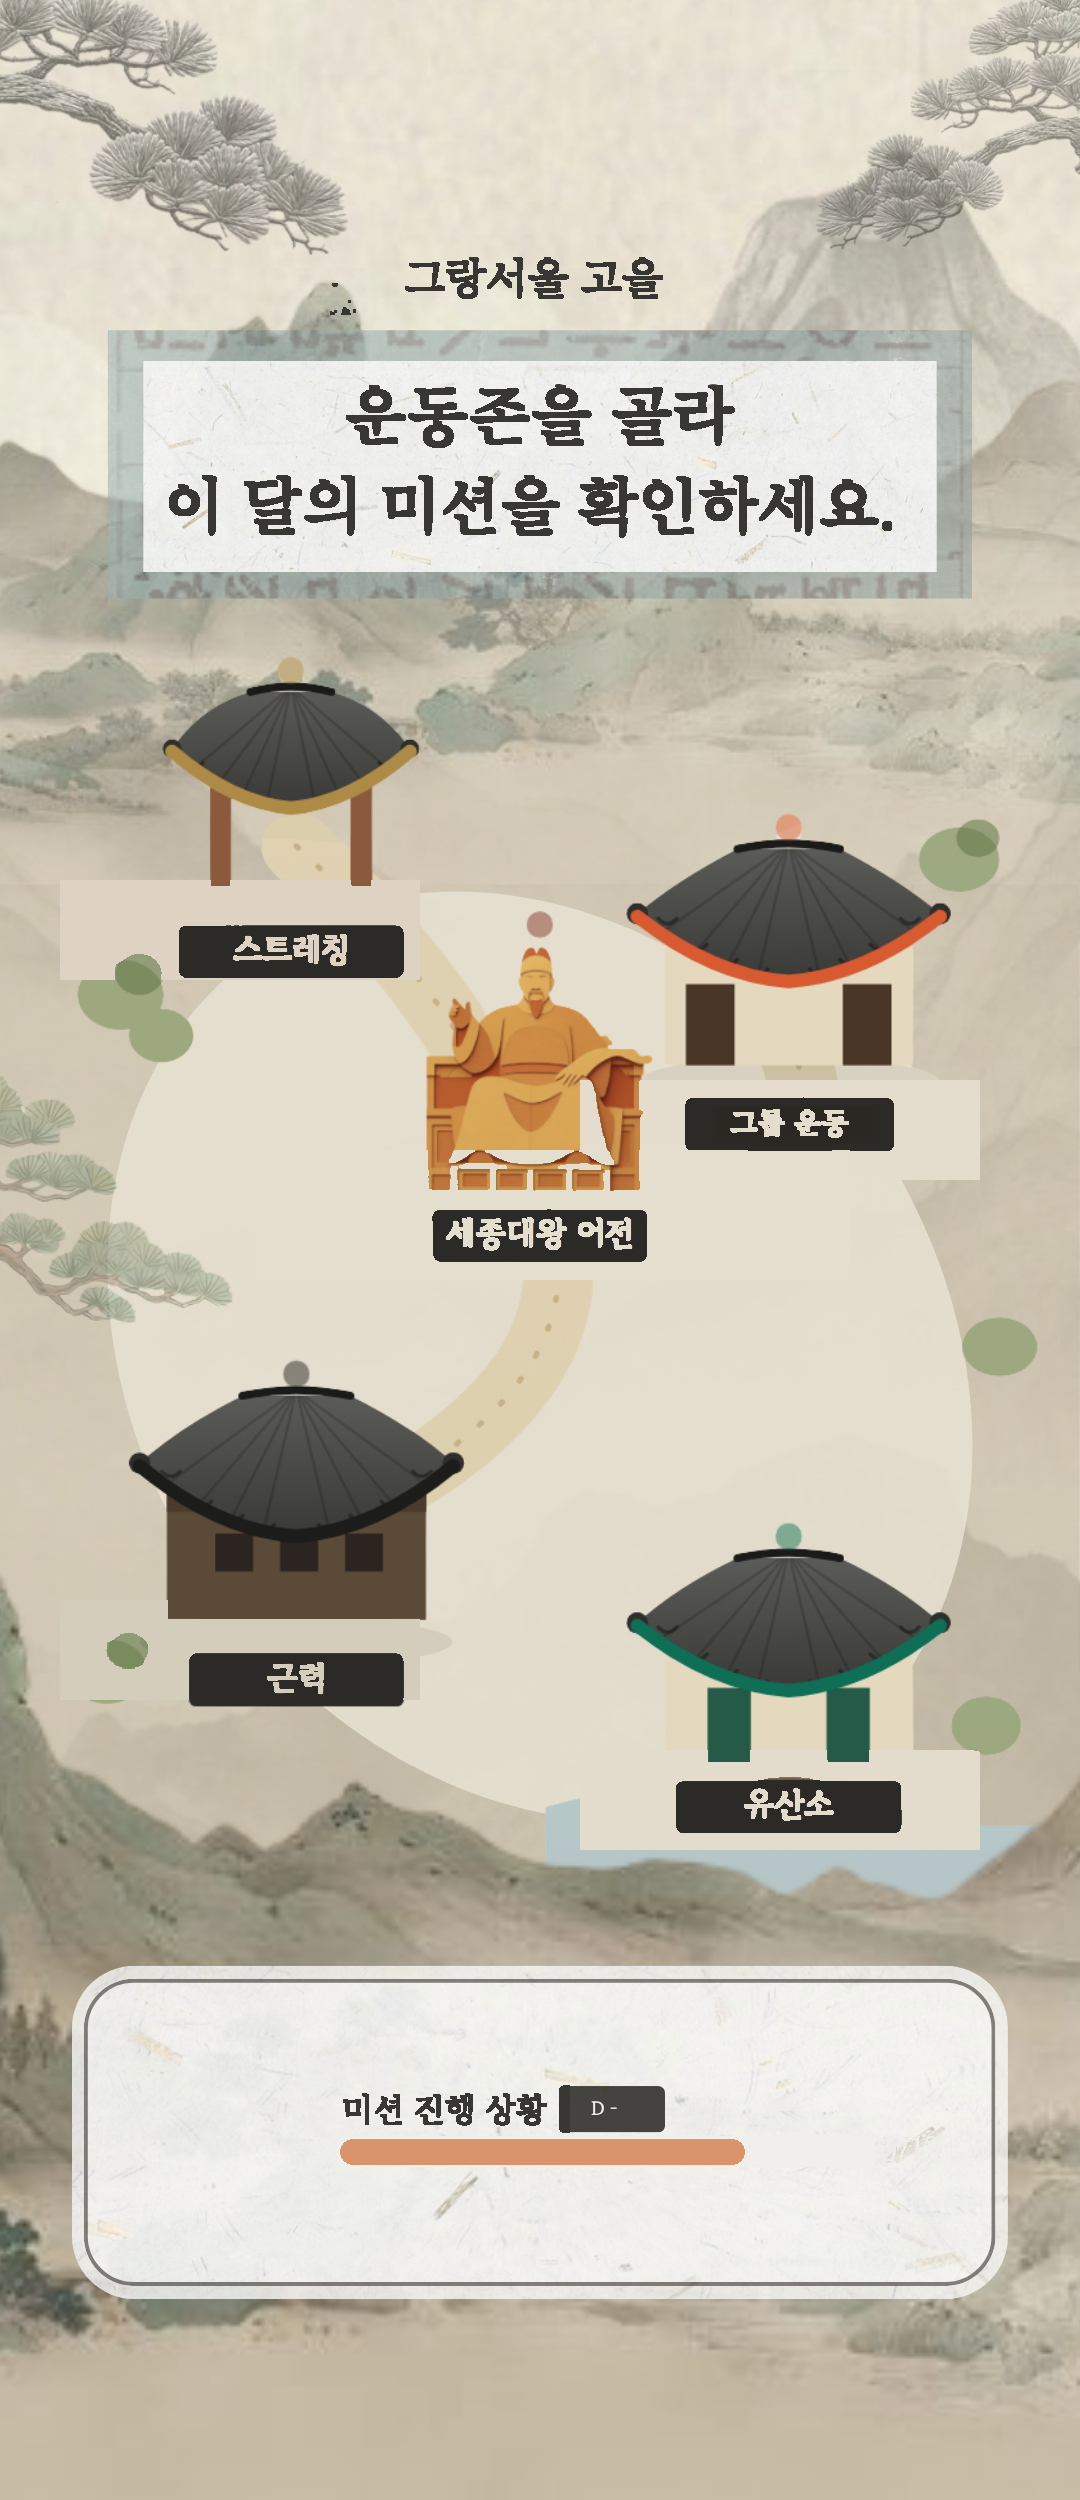
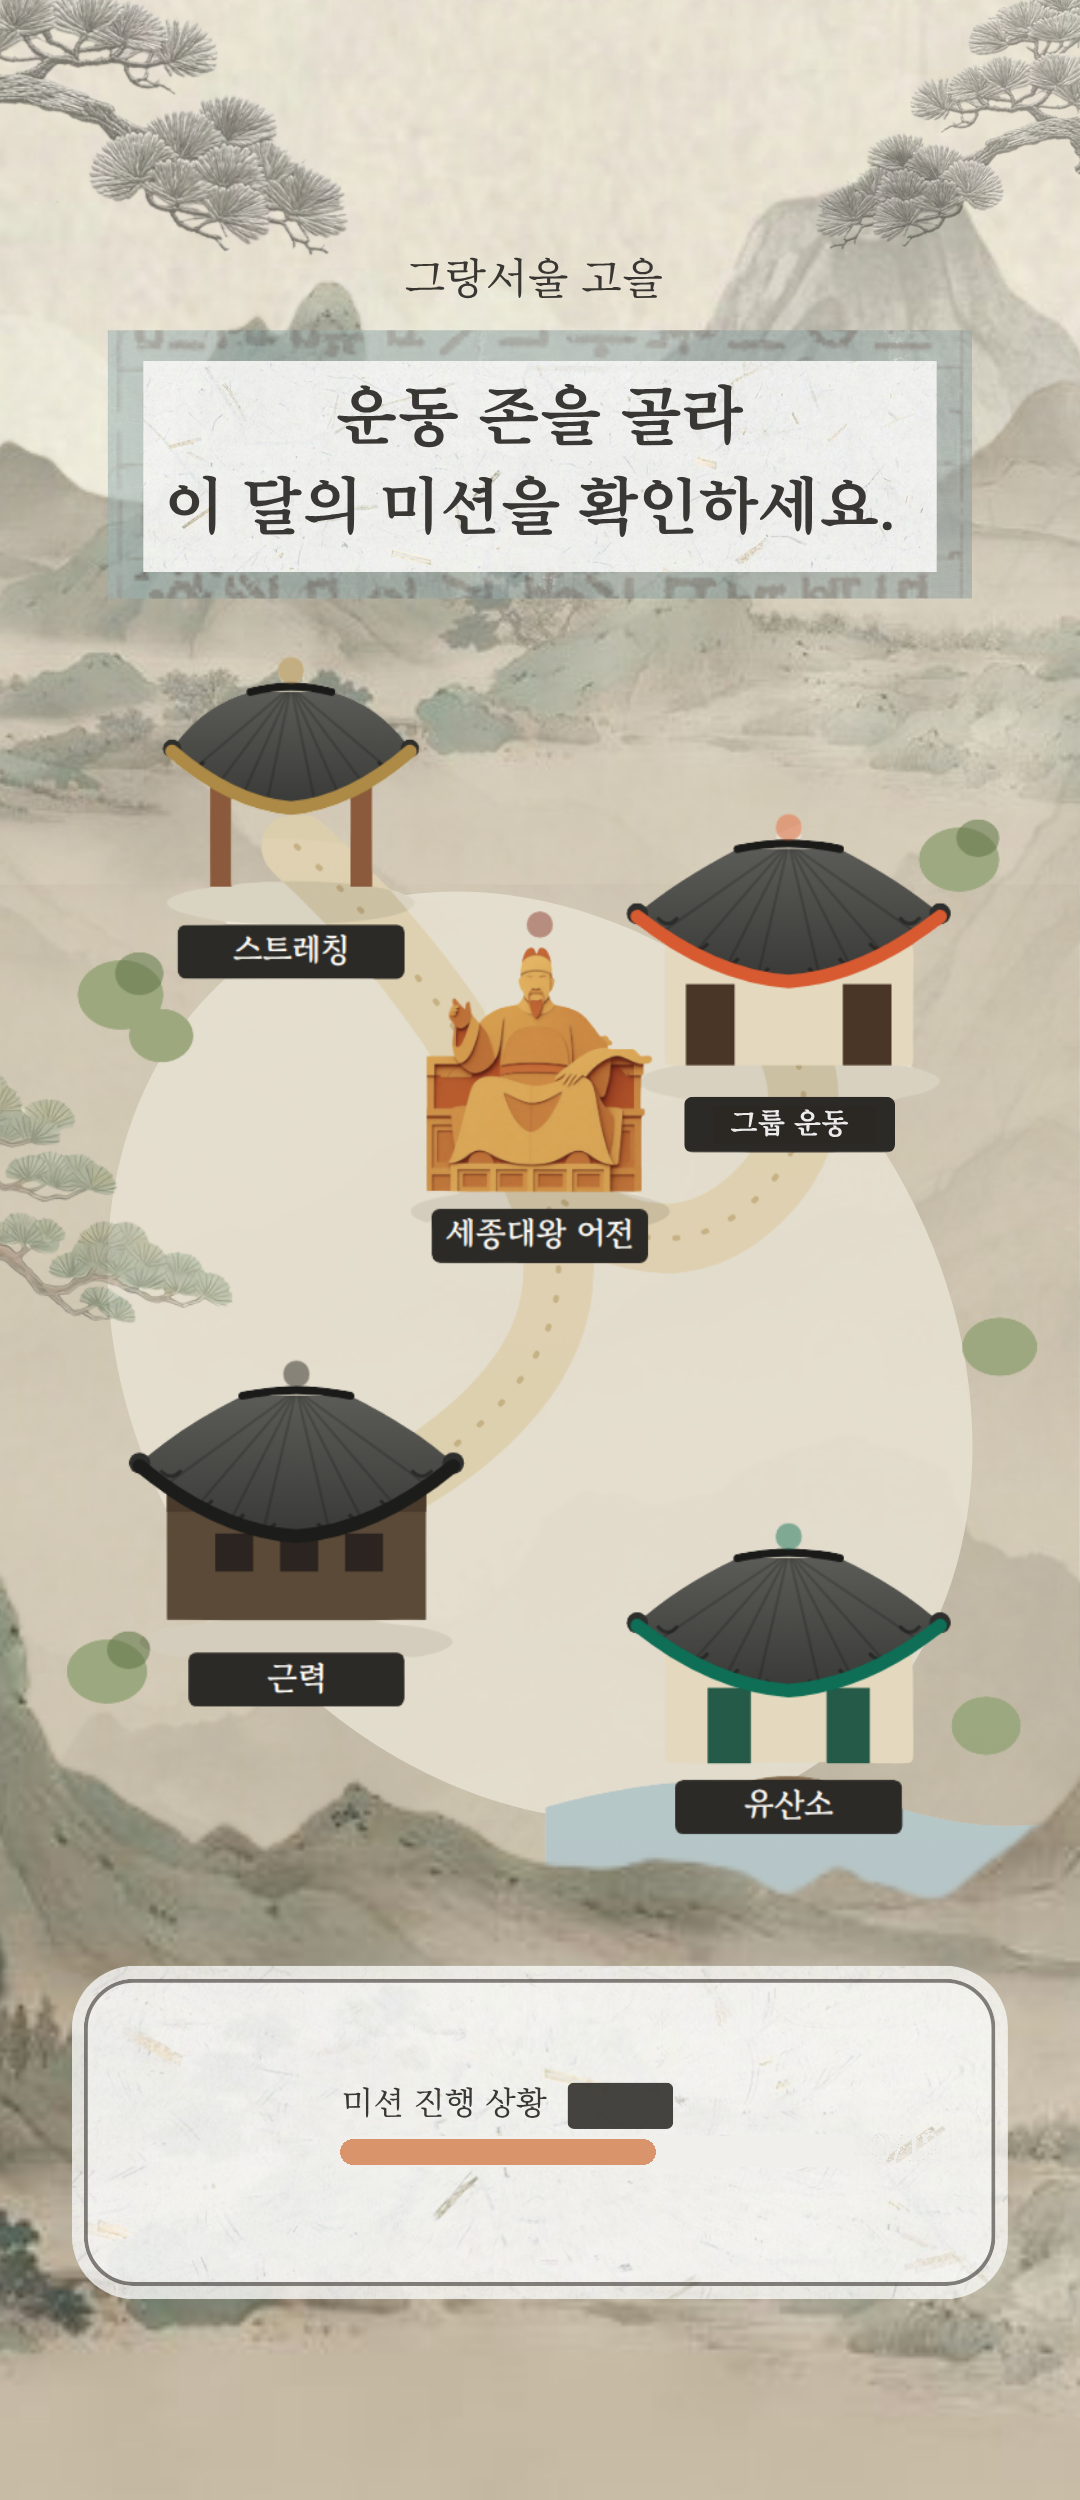
Revert bold text, remove D-day, shorten gauge further, new select bg
- Swapped in the freshly uploaded (non-bold) village map background
  and character-select background per the user's latest uploads.
- Removed the D-day badge/number entirely from the map's mission
  panel (the badge box now stays empty, as in the new source image).
- Shortened the progress gauge further and repositioned the live
  count text next to its new, shorter end.
- Updated the character-select screen's frame coordinates to match
  the new background's paper-frame position/size.

diff --git a/demos/gym_map.html b/demos/gym_map.html
@@ -67,8 +67,7 @@ body{
   border-radius:10px;
   padding:4px 7px;
   font-size:8.5px;
-  font-weight:800;
-  color:var(--ink);
+  font-weight:700;
   text-align:center;
   width:max-content;
   max-width:100px;
@@ -110,18 +109,9 @@ body{
 .char-mini .hat-group{opacity:0;transition:opacity .2s ease;}
 .char-mini .hat-group.show{opacity:1;}
 
-.dday-num{
-  position:absolute;
-  left:57.6%;top:83.6%;width:6%;height:1.7%;
-  display:flex;align-items:center;
-  color:#FFFFFF;
-  font-weight:900;
-  font-size:11px;
-  letter-spacing:0.3px;
-}
 .progress-track{
   position:absolute;
-  left:31.5%;top:85.5%;width:37.4%;height:1.05%;
+  left:31.5%;top:85.5%;width:29.2%;height:1.05%;
   border-radius:20px;
   overflow:hidden;
 }
@@ -133,10 +123,10 @@ body{
 }
 .progress-count{
   position:absolute;
-  left:70%;top:85.3%;width:12%;height:1.5%;
+  left:62%;top:85.3%;width:14%;height:1.5%;
   display:flex;align-items:center;
-  color:#1C1C1A;
-  font-weight:900;
+  color:var(--ink);
+  font-weight:700;
   font-size:13px;
 }
 
@@ -330,7 +320,6 @@ body{
         </div>
       </div>
 
-      <div class="dday-num" id="ddayBadge">13</div>
       <div class="progress-track"><div class="progress-fill" id="progressFill" style="width:0%"></div></div>
       <div class="progress-count" id="progressCount">0/12</div>
     </div>
@@ -424,14 +413,6 @@ function updateProgressUI(){
   document.getElementById('progressFill').style.width = (total ? done/total*100 : 0) + '%';
 }
 
-/* ---------- D-day ---------- */
-const CHALLENGE_END = new Date('2026-10-31T23:59:59+09:00');
-function updateDday(){
-  const now = new Date();
-  const diffDays = Math.ceil((CHALLENGE_END - now) / 86400000);
-  document.getElementById('ddayBadge').textContent = diffDays > 0 ? `${diffDays}` : 'DAY';
-}
-
 /* ---------- Character (restored from health_challenge.html's choice) ---------- */
 const hatElsMini = { gat: document.getElementById('hatGatMini'), binyeo: document.getElementById('hatBinyeoMini') };
 const outfitElsMini = { gym: document.getElementById('outfitGymMini'), chima: document.getElementById('outfitChimaMini'), baji: document.getElementById('outfitBajiMini') };
@@ -472,7 +453,6 @@ speechBubbleEl.addEventListener('click', ()=>{
   speechBubbleEl.textContent = speechPhrases[speechIndex];
 });
 
-updateDday();
 updateProgressUI();
 restoreCharacterMini();
 </script>

diff --git a/demos/health_challenge.html b/demos/health_challenge.html
@@ -80,7 +80,7 @@ body{
 
 .char-box{
   position:absolute;
-  top:26.9%;left:15.4%;width:69%;height:51.5%;
+  top:24.9%;left:10%;width:78.5%;height:54.2%;
   z-index:2;
   display:flex;flex-direction:column;
   padding:4% 5%;
